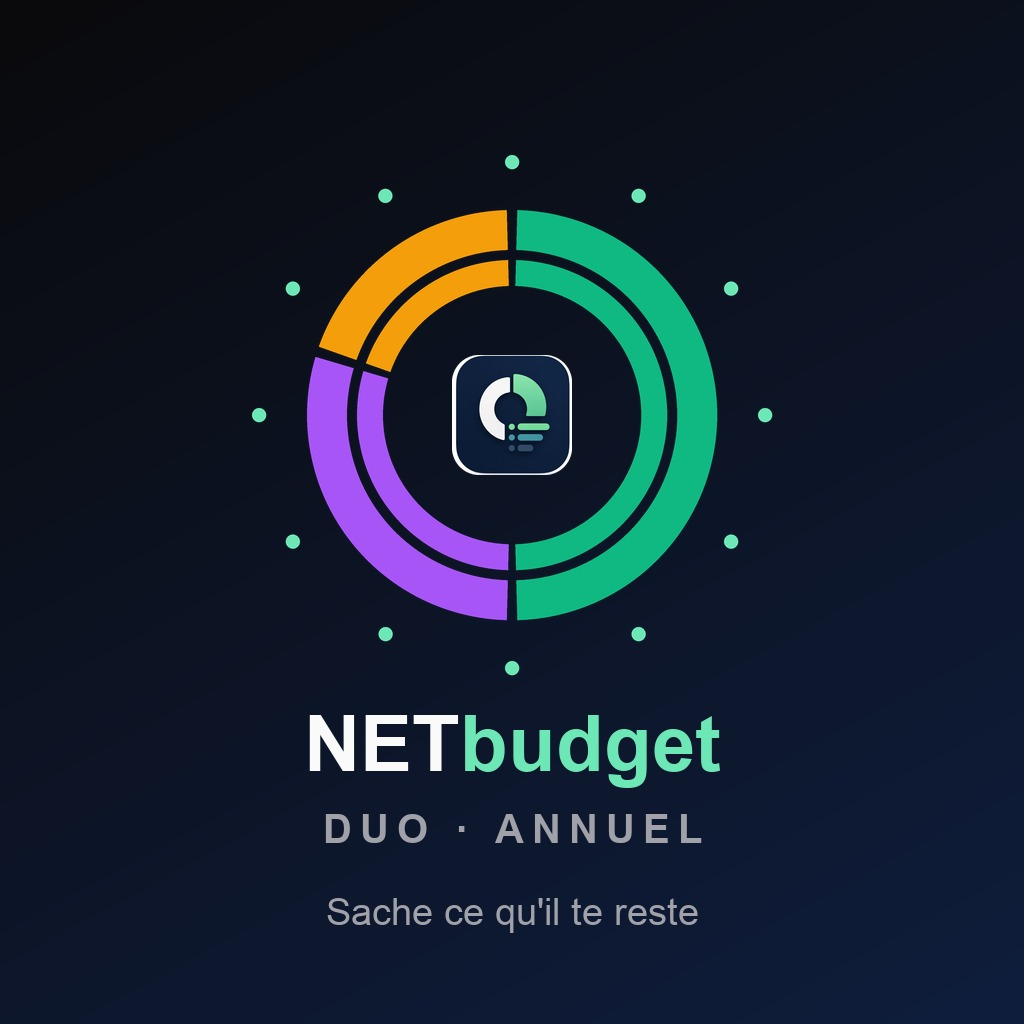
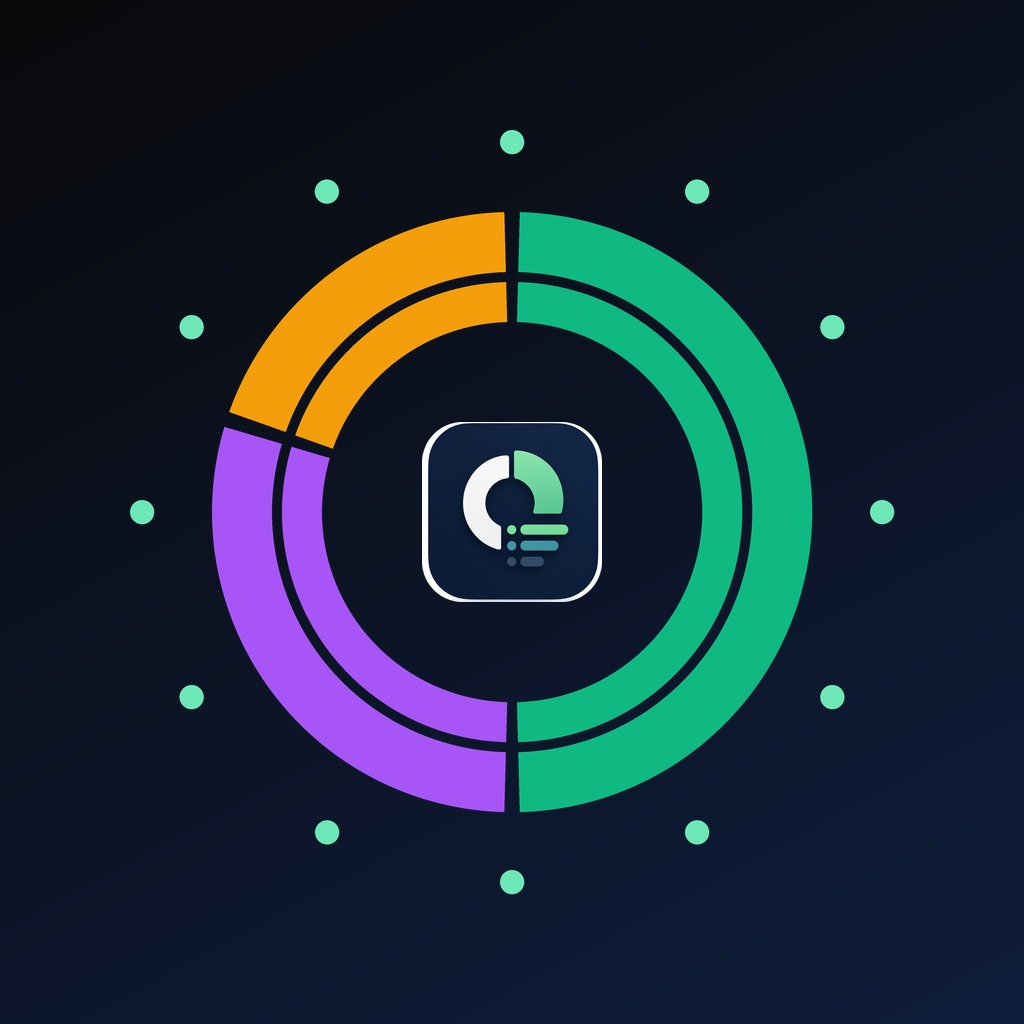
app store: images d'abonnement sans aucun texte (apple refuse le texte petit), anneaux et reperes seuls

diff --git a/marketing/appstore/generer-image-abonnement.py b/marketing/appstore/generer-image-abonnement.py
@@ -123,7 +123,7 @@ def dots_ring(img, cx, cy, radius, n, color, dot_r):
     img.paste(layer, (0, 0), layer)
 
 
-def build(filename, tier_label, rings=1, period=None):
+def build(filename, tier_label, rings=1, period=None, text=True):
     """rings : 1 Solo, 2 Duo, 3 Famille (anneaux concentriques, un par
     personne-type). period : "mensuel" (un point en haut) ou "annuel" (douze
     points autour, les mois). Apple exige une image distincte par produit :
@@ -131,17 +131,24 @@ def build(filename, tier_label, rings=1, period=None):
     img = gradient()
     d = ImageDraw.Draw(img)
 
-    # --- Anneaux, centre haut ----------------------------------------------
-    cx, cy, r = SIZE / 2, 415, 205
-    widths = {1: [56], 2: [40, 26], 3: [34, 22, 16]}[rings]
+    # --- Anneaux : centre haut avec texte, plein centre et plus grands sans.
+    # Apple refuse « du texte petit ou difficile a lire » sur ces images
+    # (2.3.2) : les six images d'abonnement sont donc sans aucun texte, et
+    # c'est le dessin seul qui distingue formule et periode.
+    if text:
+        cx, cy, r = SIZE / 2, 415, 205
+        widths = {1: [56], 2: [40, 26], 3: [34, 22, 16]}[rings]
+    else:
+        cx, cy, r = SIZE / 2, SIZE / 2, 300
+        widths = {1: [84], 2: [60, 40], 3: [50, 34, 24]}[rings]
     radius = r
     for w in widths:
         ring(img, cx, cy, radius, w)
         radius -= w + 10
     if period == "annuel":
-        dots_ring(img, cx, cy, r + 48, 12, MINT_LIGHT, 7)
+        dots_ring(img, cx, cy, r + (48 if text else 70), 12, MINT_LIGHT, 7 if text else 12)
     elif period == "mensuel":
-        dots_ring(img, cx, cy, r + 48, 1, MINT_LIGHT, 10)
+        dots_ring(img, cx, cy, r + (48 if text else 70), 1, MINT_LIGHT, 10 if text else 18)
     d = ImageDraw.Draw(img)
 
     # --- Logo au centre de l'anneau ----------------------------------------
@@ -150,7 +157,7 @@ def build(filename, tier_label, rings=1, period=None):
     # dessine un carre blanc au milieu de l'anneau. On lui applique donc un
     # masque aux coins arrondis, au meme rayon que l'icone elle-meme.
     if os.path.exists(LOGO):
-        s = 150 if rings == 1 else (120 if rings == 2 else 100)
+        s = (150 if rings == 1 else (120 if rings == 2 else 100)) if text else (220 if rings == 1 else (180 if rings == 2 else 150))
         logo = Image.open(LOGO).convert("RGB").resize((s, s), Image.LANCZOS)
 
         S = 4  # masque dessine en plus grand puis reduit : bords lisses
@@ -161,6 +168,13 @@ def build(filename, tier_label, rings=1, period=None):
         mask = mask.resize((s, s), Image.LANCZOS)
 
         img.paste(logo, (int(cx - s / 2), int(cy - s / 2)), mask)
+
+    if not text:
+        out = os.path.join(HERE, filename)
+        img.save(out, "PNG", optimize=True, dpi=(72, 72))
+        img.save(out.replace(".png", ".jpg"), "JPEG", quality=92, dpi=(72, 72))
+        print(f"  {filename}  {img.size[0]}x{img.size[1]}  sans texte  ({os.path.getsize(out) // 1024} Ko)")
+        return
 
     # --- Nom de marque ------------------------------------------------------
     f_brand = bold(78)
@@ -197,7 +211,7 @@ def main():
     for tier, rings in (("Solo", 1), ("Duo", 2), ("Famille", 3)):
         build(f"abonnement-{tier.lower()}-1024.png", tier, rings)
         for period in ("mensuel", "annuel"):
-            build(f"abonnement-{tier.lower()}-{period}-1024.png", tier, rings, period)
+            build(f"abonnement-{tier.lower()}-{period}-1024.png", tier, rings, period, text=False)
     build("abonnement-1024.png", "")
     return 0
 
